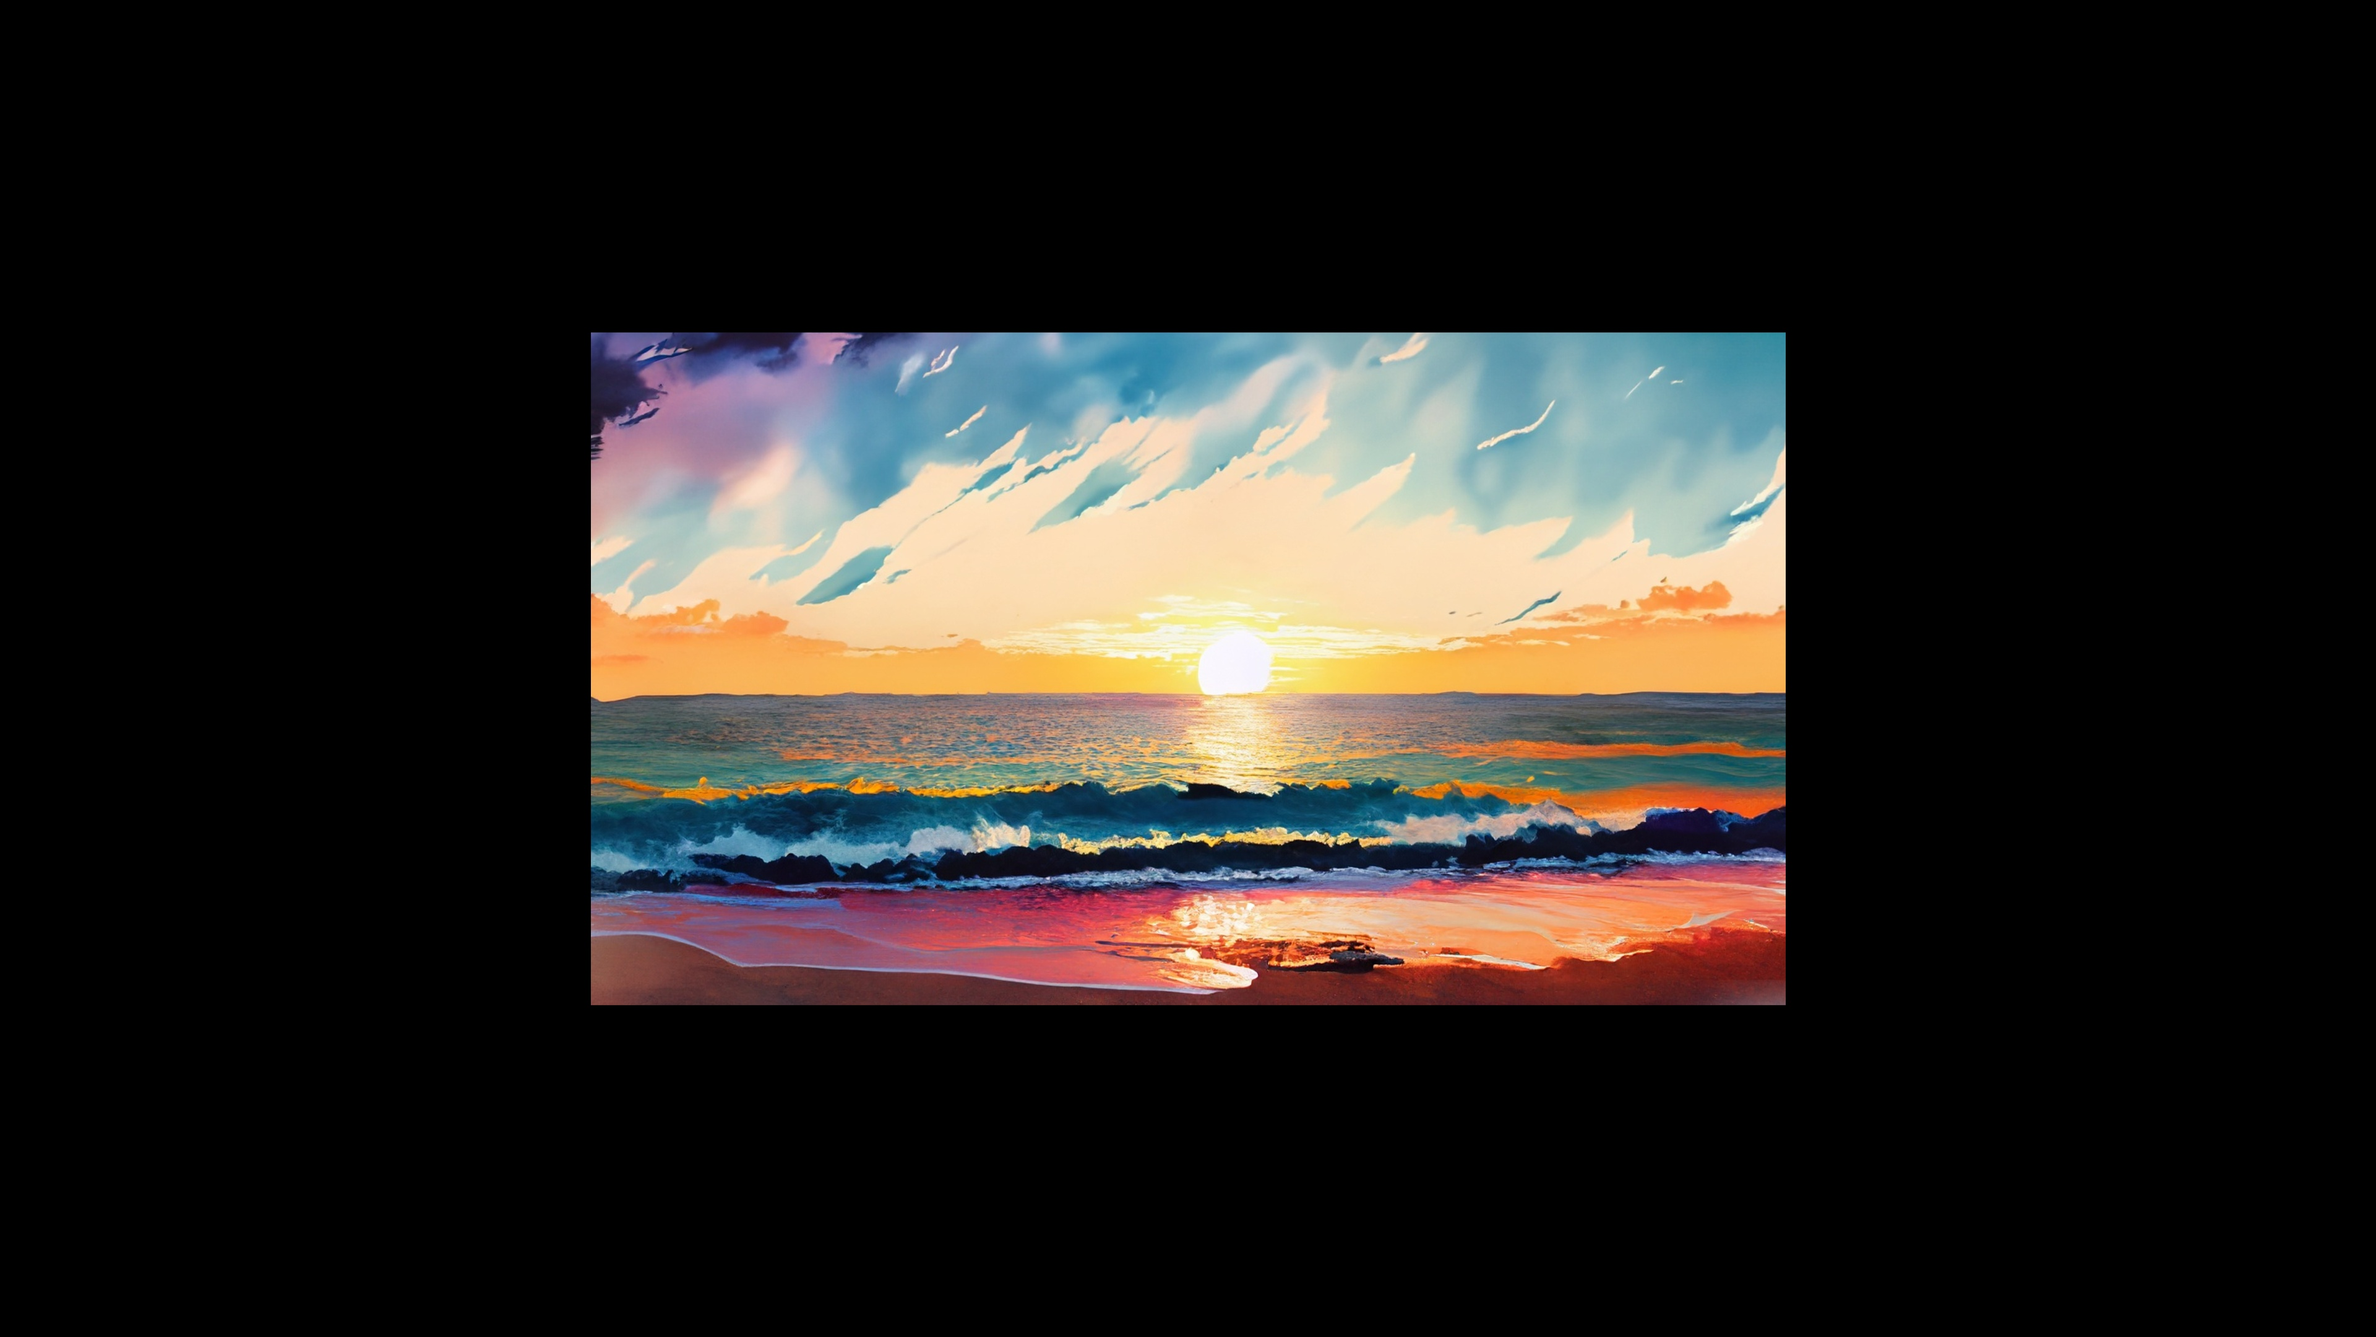
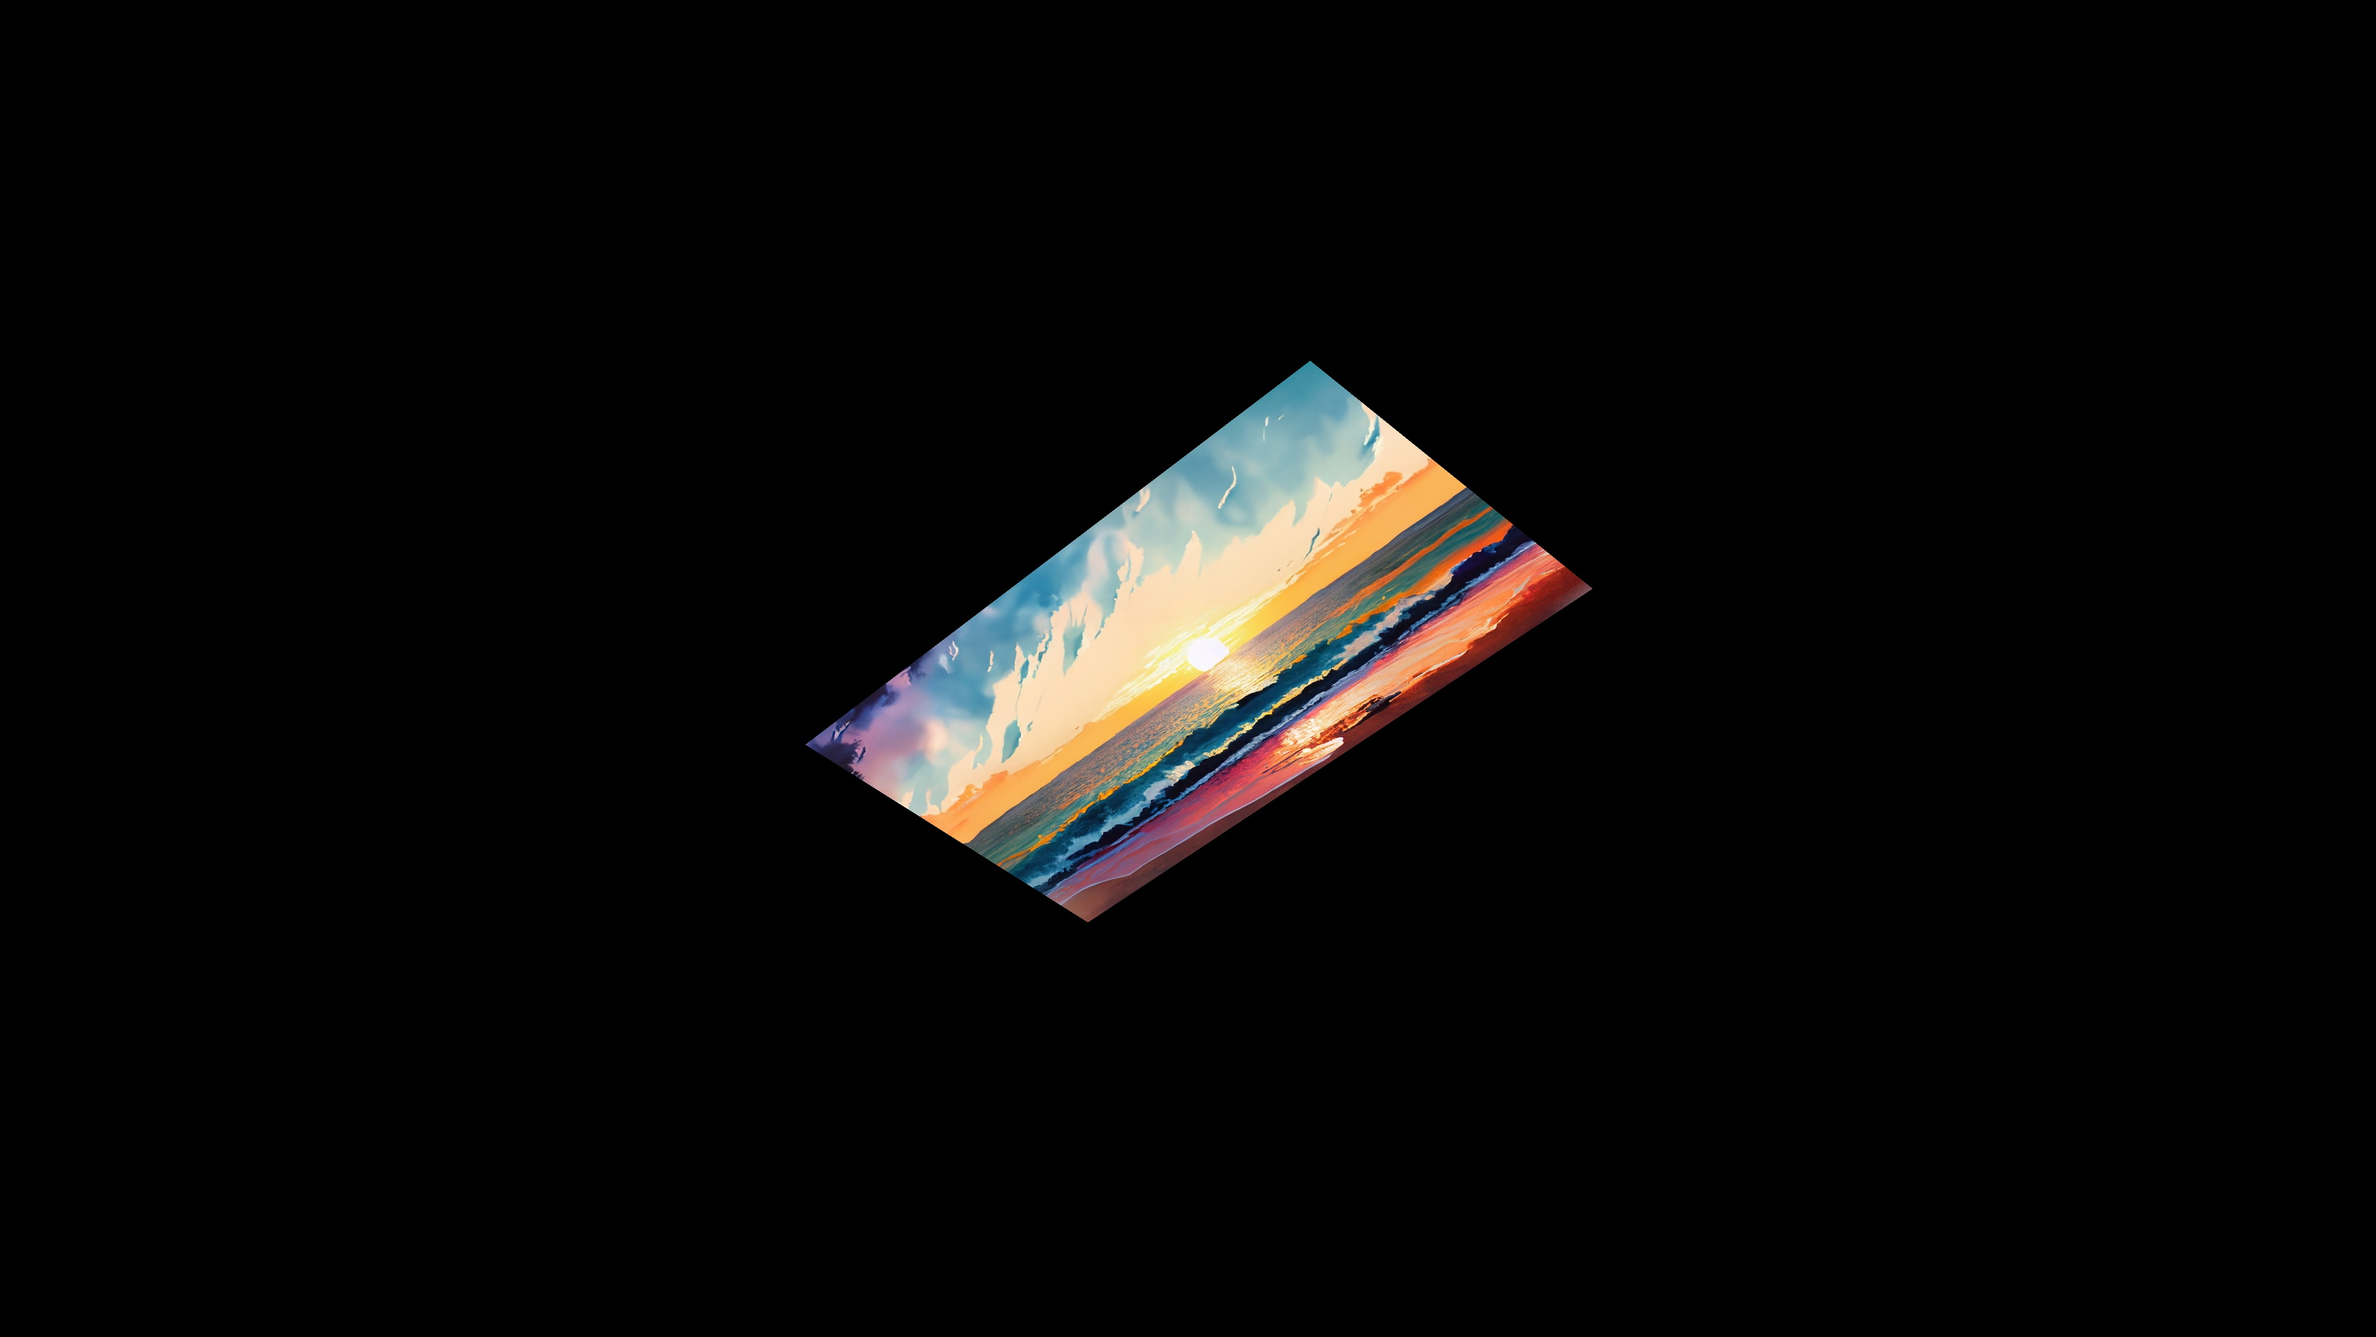
fix: common configuration

Changed region(s): [[0.25, 0.2481, 0.75, 0.7755]]

diff --git a/nudge_test/motor/setMotor.py b/nudge_test/motor/setMotor.py
@@ -1,22 +1,38 @@
 # setMotor.py
+import time
 import numpy as np
 from config_loader import load_config
 from serial_comm import SimpleSerialMotor
-import time
 
-# ── config 로드 ─────────────────────────────────────────────
+# -------------------------------------------------------------
+# Configuration
+# -------------------------------------------------------------
 config = load_config()
+# Toggle to disable serial writes when Arduino is not present.
+ARDUINO_CONNECTED = False
 
-# geometry
-z_offset = float(config["beam_geometry"]["z_offset"])  # tilt축~프로젝터 거리(mm)
-H        = float(config["beam_geometry"]["H"])         # 바닥~tilt축 높이(mm)
+def _vector_setting(name, default):
+    """Read a 3D vector from the config with a safe fallback."""
+    value = config.get(name, default)
+    try:
+        arr = np.asarray(value, dtype=np.float64)
+    except (TypeError, ValueError):
+        return np.asarray(default, dtype=np.float64)
+    if arr.shape != np.asarray(default).shape:
+        return np.asarray(default, dtype=np.float64)
+    return arr
 
-# serial
-port     = str(config["serial"]["port"])          
+# Geometry
+PT_HEIGHT = float(config.get("pan_tilt_height", 1350.0))
+PT_POS = np.array([0.0, 0.0, PT_HEIGHT], dtype=np.float64)
+PROJECTOR_OFFSET_LOCAL = _vector_setting("projector_offset_vector", [50.0, 0.0, 150.0])
+
+# Serial settings
+port     = str(config["serial"]["port"])
 baudrate = int(config["serial"]["baudrate"])
 timeout  = float(config["serial"]["timeout"])
 
-# motor limits & init
+# Motor limits & init
 pan_min  = float(config["motor"]["pan"]["min_deg"])
 pan_max  = float(config["motor"]["pan"]["max_deg"])
 pan_init = float(config["motor"]["pan"]["init_deg"])
@@ -25,56 +41,142 @@ tilt_min  = float(config["motor"]["tilt"]["min_deg"])
 tilt_max  = float(config["motor"]["tilt"]["max_deg"])
 tilt_init = float(config["motor"]["tilt"]["init_deg"])
 
-# ── 통신 링크 ──────────────────────────────────────────────
-link = SimpleSerialMotor(port=port, baudrate=baudrate, timeout=timeout)
-print("[Serial Check]", "PING?", link.ping())
+# -------------------------------------------------------------
+# Serial link
+# -------------------------------------------------------------
+link = None
+if ARDUINO_CONNECTED:
+    link = SimpleSerialMotor(port=port, baudrate=baudrate, timeout=timeout)
+    print("[Serial Check]", "PING?", link.ping())
+else:
+    print("[Serial Check] Arduino link disabled (ARDUINO_CONNECTED=False)")
 
-# ── 유틸 ───────────────────────────────────────────────────
-def _clip(v: float, vmin: float, vmax: float) -> float:
-    return min(max(v, vmin), vmax)
+# -------------------------------------------------------------
+# Geometry helpers
+# -------------------------------------------------------------
+def _clip(v: float, vmin: float, vmax: float, type) -> float:
+    clipped_v = min(max(v, vmin), vmax)
+    if clipped_v != v:
+        print(type, " Motor Clipped", v, "to", clipped_v)
+    return clipped_v
 
-# ── 각도 계산 (radian → degree) ────────────────────────────
-def _calAngle(target):
+def _rot_z(rad):
+    c, s = np.cos(rad), np.sin(rad)
+    return np.array([[ c, -s, 0.0],
+                     [ s,  c, 0.0],
+                     [0.0, 0.0, 1.0]], dtype=np.float64)
+
+def _rot_y(rad):
+    c, s = np.cos(rad), np.sin(rad)
+    return np.array([[ c, 0.0,  s],
+                     [0.0, 1.0, 0.0],
+                     [-s, 0.0,  c]], dtype=np.float64)
+
+def _angles_to_R(pan_deg, tilt_deg):
+    """Return world rotation for given pan (about Z) and tilt (about Y)."""
+    p = np.deg2rad(pan_deg)
+    t = np.deg2rad(tilt_deg)
+    return _rot_z(p) @ _rot_y(t)
+
+def _beam_from_angles(pan_deg, tilt_deg):
+    """Compute beam origin and direction in world coordinates."""
+    R = _angles_to_R(pan_deg, tilt_deg)
+    beam_pos = PT_POS + R @ PROJECTOR_OFFSET_LOCAL
+    local_forward = np.array([1.0, 0.0, 0.0], dtype=np.float64)
+    nudge_vec = R @ local_forward
+    norm = np.linalg.norm(nudge_vec)
+    if norm < 1e-9:
+        raise RuntimeError("Invalid nudge vector norm (too small).")
+    return beam_pos, nudge_vec / norm
+
+def _ray_target_distance_sq(pan_deg, tilt_deg, target):
+    """Squared shortest distance between the beam ray and target."""
+    beam_pos, nudge_vec = _beam_from_angles(pan_deg, tilt_deg)
+    target = np.asarray(target, dtype=np.float64)
+    v = target - beam_pos
+    s = max(0.0, np.dot(v, nudge_vec))  # ray only fires forward
+    closest = beam_pos + s * nudge_vec
+    diff = closest - target
+    return float(np.dot(diff, diff))
+
+def _initial_guess_without_offset(target):
+    """Pan/tilt guess if the beam originated at PT_POS (offset ignored)."""
     x, y, z = map(float, target)
-    r_xy = np.hypot(x, y)                 # sqrt(x^2 + y^2)
-    dz = z-H
-    r = np.hypot(r_xy, dz)            # sqrt(x^2 + y^2 + (H-z)^2)
+    dz = z - PT_POS[2]
+    pan = np.degrees(np.arctan2(y, x))
+    r_xy = np.hypot(x, y)
+    tilt = np.degrees(np.arctan2(-dz, r_xy))
+    return pan, tilt
 
-    theta_p = np.arctan2(y, x)
+def solve_pan_tilt_for_target(target,
+                              pan_bounds=(pan_min, pan_max),
+                              tilt_bounds=(tilt_min, tilt_max)):
+    """Numerically minimize beam-to-target distance over pan/tilt."""
+    target = np.asarray(target, dtype=np.float64).reshape(3,)
+    pan, tilt = _initial_guess_without_offset(target)
+    pan = float(np.clip(pan, *pan_bounds))
+    tilt = float(np.clip(tilt, *tilt_bounds))
+    best_loss = _ray_target_distance_sq(pan, tilt, target)
 
-    ratio = np.clip(z_offset / max(r, 1e-9), -1.0, 1.0)
-    theta_1 = np.arccos(ratio)
-    theta_2 = np.arctan2(r_xy, dz)
-    print("theta_1, theta_2:", np.degrees(theta_1), np.degrees(theta_2))
-    theta_t = np.arccos(ratio) - np.arctan2(r_xy, dz)
-    
-    return float(np.degrees(theta_t)), float(np.degrees(theta_p))
+    for step in (4.0, 1.0, 0.25):
+        improved = True
+        while improved:
+            improved = False
+            for d_pan in (-step, 0.0, step):
+                for d_tilt in (-step, 0.0, step):
+                    if d_pan == 0.0 and d_tilt == 0.0:
+                        continue
+                    cand_pan = float(np.clip(pan + d_pan, *pan_bounds))
+                    cand_tilt = float(np.clip(tilt + d_tilt, *tilt_bounds))
+                    loss = _ray_target_distance_sq(cand_pan, cand_tilt, target)
+                    if loss + 1e-6 < best_loss:
+                        best_loss = loss
+                        pan, tilt = cand_pan, cand_tilt
+                        improved = True
+    return pan, tilt
 
-# ── 모터 제어 ──────────────────────────────────────────────
+def _calAngle(target):
+    start = time.perf_counter()
+    result = solve_pan_tilt_for_target(target)
+    elapsed_ms = (time.perf_counter() - start) * 1000.0
+    print(f"_calAngle computation took {elapsed_ms:.2f} ms")
+    return result
+
+# -------------------------------------------------------------
+# Motor command helpers
+# -------------------------------------------------------------
 def _setAngle(tilt_deg, pan_deg):
-    # int로 반올림 후 전송
-    print(f"Set motor to: tilt {tilt_deg:.2f}, pan {pan_deg:.2f}")
-    print(link.send(int(round(tilt_deg)), int(round(pan_deg))))
+    if ARDUINO_CONNECTED and link is not None:
+        print(link.send(int(round(tilt_deg)), int(round(pan_deg))))
+        print(f"Set motor to: tilt {tilt_deg:.2f}, pan {pan_deg:.2f}")
+    else:
+        print("[Serial Disabled] Command not sent.")
+        print(f"Simulated command: tilt {tilt_deg:.2f}, pan {pan_deg:.2f}")
 
-# ── 공개 API ───────────────────────────────────────────────
+# -------------------------------------------------------------
+# Public API
+# -------------------------------------------------------------
 def setMotor(target):
     """
-    1) target으로부터 '순수' 각도 계산
-    2) 각도에 init 보정(+= init_deg)
-    3) min/max 클램프
-    4) 모터 전송
+    1) solve pan/tilt that align the beam with target
+    2) add init offsets
+    3) clip to motor bounds
+    4) command motors
     """
     pan_raw, tilt_raw = _calAngle(target)
-    print(f"Raw angles: tilt {tilt_raw:.2f}, pan {pan_raw:.2f}")
-    tilt_cmd = _clip(tilt_init+tilt_raw, tilt_min, tilt_max)
-    pan_cmd  = _clip(pan_raw  + pan_init,  pan_min,  pan_max)
-    print(f"Command angles: tilt {tilt_cmd:.2f}, pan {pan_cmd:.2f}")
-    _setAngle(tilt_cmd, pan_cmd)
-    return pan_raw, tilt_raw  # 디버깅용 반환
+    
+    tilt_cmd = _clip(tilt_init + tilt_raw, tilt_min, tilt_max, "Tilt")
+    pan_cmd  = _clip(pan_init  + pan_raw,  pan_min,  pan_max, "Pan")
+    pan_raw = pan_cmd - pan_init
+    tilt_raw = tilt_cmd - tilt_init
 
-# ── 테스트 ─────────────────────────────────────────────────
+    print(f"Angles in degree: pan {pan_raw:.2f}, tilt {tilt_raw:.2f}")
+    # print(f"Command angles: pan {pan_cmd:.2f}, tilt {tilt_cmd:.2f}")
+    _setAngle(tilt_cmd, pan_cmd)
+    return pan_raw, tilt_raw
+
+# -------------------------------------------------------------
+# Manual test
+# -------------------------------------------------------------
 if __name__ == "__main__":
-    while True:
-        tilt = input("Tilt")
-        pan = input("Pan")
-        _setAngle(int(tilt), int(pan))
+    setMotor((1000, 0, 2500.0))

diff --git a/nudge_test/motor/H_calculator.py b/nudge_test/motor/H_calculator.py
@@ -2,13 +2,65 @@
 import numpy as np
 import cv2
 
+try:
+    from nudge_test.motor.config_loader import load_config
+except ModuleNotFoundError:  # pragma: no cover
+    from config_loader import load_config
+
+
+def _safe_vector(value, default):
+    """Return np.array for vector settings, falling back to default on bad input."""
+    arr = np.asarray(default, dtype=np.float64)
+    if value is None:
+        return arr
+    try:
+        candidate = np.asarray(value, dtype=np.float64)
+    except (ValueError, TypeError):
+        return arr
+    if candidate.shape != arr.shape:
+        try:
+            candidate = candidate.reshape(arr.shape)
+        except ValueError:
+            return arr
+    return candidate
+
+
+def _parse_ratio(value, default):
+    """Parse width/height ratio from numeric, iterable, or 'a/b' string."""
+    if value is None:
+        return default
+    if isinstance(value, str) and "/" in value:
+        num, den = value.split("/", 1)
+        try:
+            num, den = float(num), float(den)
+            return default if abs(den) < 1e-9 else num / den
+        except ValueError:
+            return default
+    if isinstance(value, (list, tuple)) and len(value) == 2:
+        try:
+            num, den = float(value[0]), float(value[1])
+            return default if abs(den) < 1e-9 else num / den
+        except (TypeError, ValueError):
+            return default
+    try:
+        ratio = float(value)
+        return default if abs(ratio) < 1e-9 else ratio
+    except (TypeError, ValueError):
+        return default
+
+
+config = load_config()
+
 ################### configurations
 # Pan Tilt geo config
-pt_h = 1600   # projector height (mm)
+pt_h = float(config.get("pan_tilt_height", 1600.0))   # projector height (mm)
 pt_pos = np.array([0.0, 0.0, pt_h], dtype=np.float64)   # projector origin
 
 # Projector geo config
-beam_offset_vec = np.array([50, 0.0, 80], dtype=np.float64)  # pan tilt에서 본 빔프로젝터 light source 위치 벡터 (m)
+beam_offset_vec = _safe_vector(
+    config.get("projector_offset_vector"),
+    [50.0, 0.0, 80.0],
+)  # pan tilt에서 본 빔프로젝터 light source 위치 벡터 (mm)
 
 # Projector config
 PROJ_W, PROJ_H = 3840, 2160
@@ -18,16 +70,22 @@ H_FOV_DEG = 45.0
 IMG_W, IMG_H = 3840, 2160
 
 # nudge plane config
-ceiling_n_w     = np.array([0.0, 0.0, 1.0], dtype=np.float64)   # 천장 법선(+z)
-ceiling_height = 2500  # 천장 높이 (mm)
+plane_cfg = config.get("nudge_plane_geometry", {})
+ceiling_n_w = _safe_vector(
+    plane_cfg.get("normal_vector"),
+    [0.0, 0.0, 1.0],
+)   # 천장 법선(+z)
+ceiling_height = float(plane_cfg.get("nudge_plane_displacement", 2500.0))  # 천장 높이 (mm)
 
 # nudge screen config
-SCREEN_WIDTH_M  = 1.77 * 0.2
-SCREEN_HEIGHT_M = SCREEN_WIDTH_M * 9.0 / 16.0
+screen_cfg = config.get("nudge_screen_geometry", {})
+screen_width_mm = float(screen_cfg.get("screen_width", 354.0))
+screen_ratio = max(1e-9, _parse_ratio(screen_cfg.get("screen_ratio"), 16.0 / 9.0))  # width / height
+screen_height_mm = screen_width_mm / screen_ratio
 # Keep calculations in millimeters to stay consistent with other coordinates.
-SCREEN_WIDTH_MM  = SCREEN_WIDTH_M * 1000.0
-SCREEN_HEIGHT_MM = SCREEN_HEIGHT_M * 1000.0
-ROLL_DEG = 0.0  # 평면 내 추가 회전
+SCREEN_WIDTH_MM  = screen_width_mm
+SCREEN_HEIGHT_MM = screen_height_mm
+ROLL_DEG = float(screen_cfg.get("roll_deg", 0.0))  # 평면 내 추가 회전
 
 def _intrinsics_from_hfov(width, height, h_fov_deg):
     h = np.deg2rad(h_fov_deg)
@@ -157,9 +215,7 @@ def H_caculator(pan, tilt, src_pts=None, return_wall_center=False):
         return H, nudge_center_w
     return H
 
-if __name__ == "__main__":
-    test_pan = 0
-    test_tilt = 90
+def test_homography(test_pan, test_tilt):
     INPUT_IMG_PATH = "input_img.jpg"
 
     img = cv2.imread(INPUT_IMG_PATH, cv2.IMREAD_COLOR)
@@ -184,3 +240,16 @@ if __name__ == "__main__":
 
     print("wall_center_w:", wall_center_w)
     print("Saved: distorted_img.jpg")
+
+        # Show the distorted image in fullscreen for visual verification.
+    window_name = "Distorted Projection"
+    cv2.namedWindow(window_name, cv2.WINDOW_NORMAL)
+    cv2.setWindowProperty(window_name, cv2.WND_PROP_FULLSCREEN, cv2.WINDOW_FULLSCREEN)
+    cv2.imshow(window_name, distorted)
+    cv2.waitKey(0)
+    cv2.destroyAllWindows()
+
+if __name__ == "__main__":
+    test_pan = 45
+    test_tilt = 45
+    test_homography(test_pan, test_tilt)

diff --git a/nudge_test/vision/pixel_to_world.py b/nudge_test/vision/pixel_to_world.py
@@ -35,7 +35,9 @@ def pixel_to_world_on_floor(u, v):
 
 
 if __name__ == "__main__":
-    pts = np.load('image_pts.npy')  # [[u,v], [u,v], ...]
-    for (u, v) in pts:
-        Xw = pixel_to_world_on_floor(u, v)
-        print(f"pixel=({u:.1f}, {v:.1f}) -> world={Xw}")
+    # pts = np.load('image_pts.npy')  # [[u,v], [u,v], ...]
+    # for (u, v) in pts:
+    #     Xw = pixel_to_world_on_floor(u, v)
+    #     print(f"pixel=({u:.1f}, {v:.1f}) -> world={Xw}")
+    Xw = pixel_to_world_on_floor(800, 500)
+    print(f"world={Xw}")
